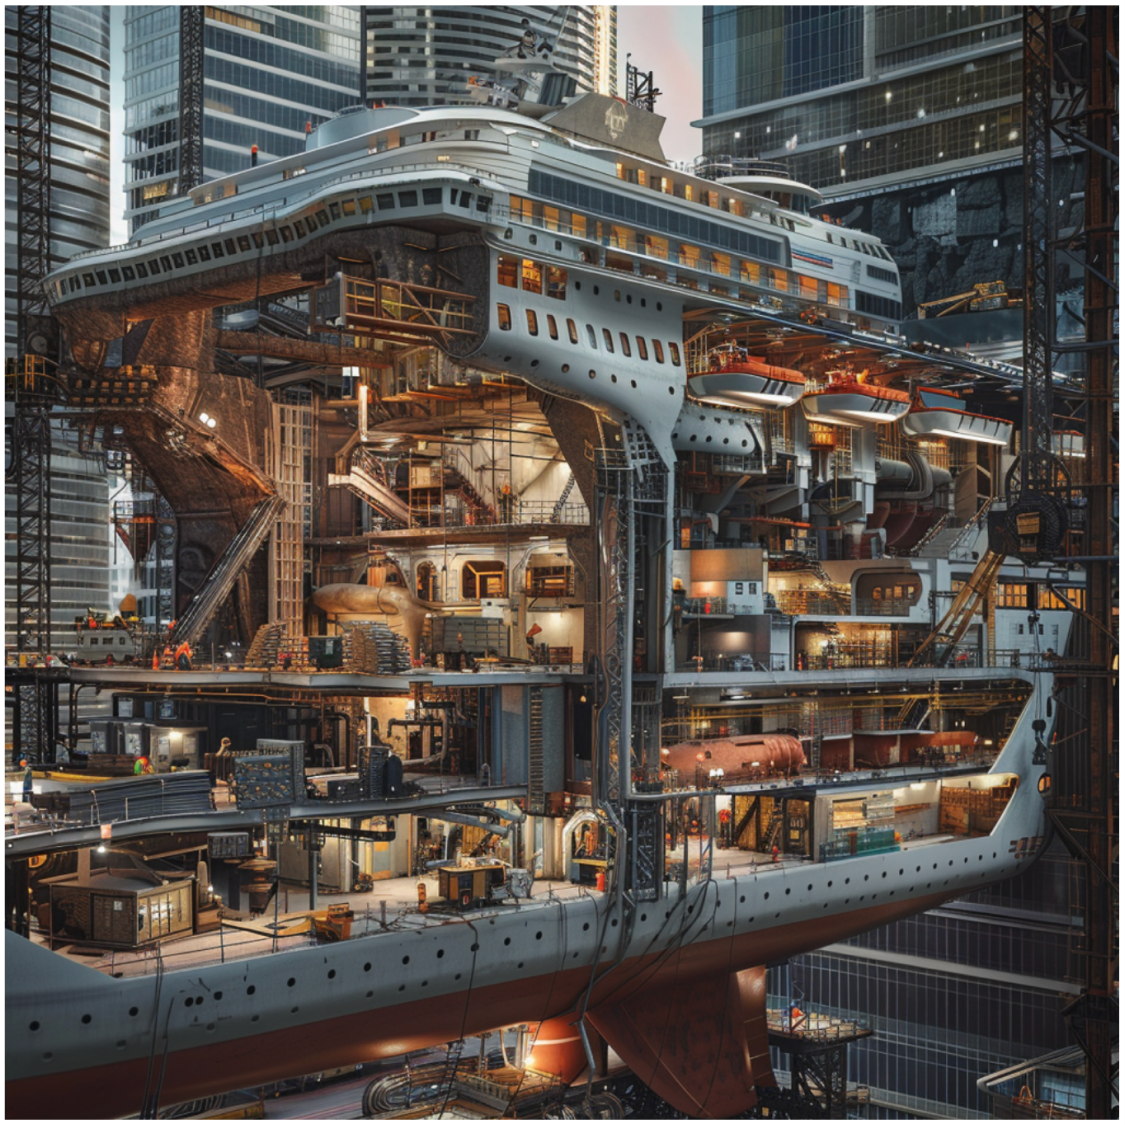
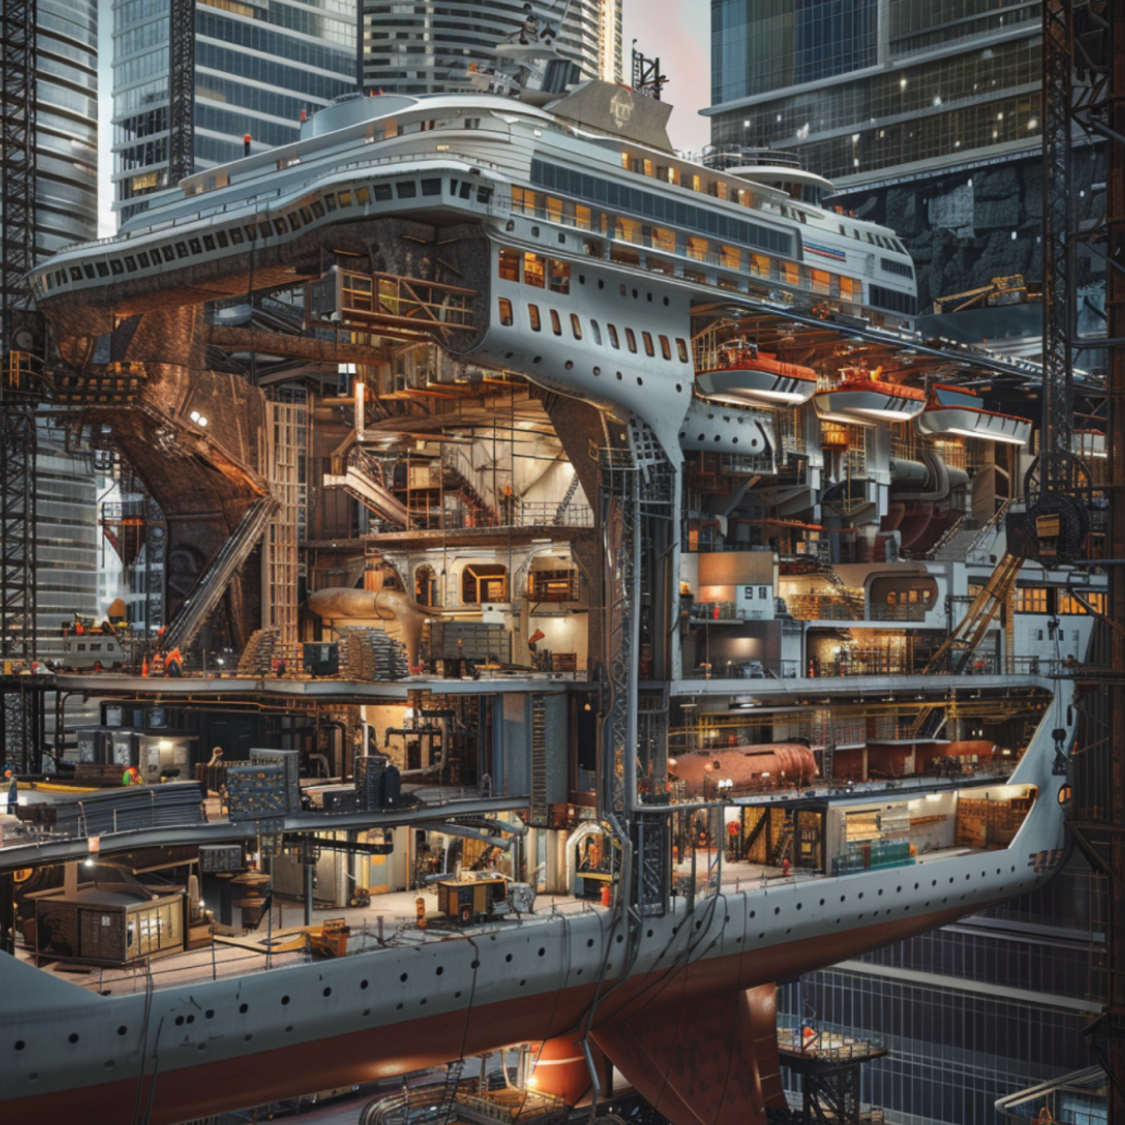
Vision Images Updated

diff --git a/vision-of-the-future.html b/vision-of-the-future.html
@@ -167,7 +167,7 @@
           <div class="each-block">
             <a href="war-games.html">
             <div class="img">
-              <img src="img/vision/War.png" alt="war" class="img-fluid w-100">
+              <img src="img/vision/War.webp" alt="war" class="img-fluid w-100">
               <div class="overlay">
                 <a class="button-85" href="war-games.html" role="button" ><img src="img/vision/arrow (3).svg" class="img-fluid" alt="arrow"></a>
                </div>
@@ -182,7 +182,7 @@
           <div class="each-block">
             <a href="water-woes.html">
             <div class="img">
-              <img src="img/vision/water.png" alt="water" class="img-fluid w-100">
+              <img src="img/vision/water.webp" alt="water" class="img-fluid w-100">
               <div class="overlay">
                 <a class="button-85" href="water-woes.html" role="button" ><img src="img/vision/arrow (3).svg" class="img-fluid" alt="arrow"></a>
                </div>
@@ -197,7 +197,7 @@
           <div class="each-block">
             <a href="u-phone.html">
             <div class="img">
-              <img src="img/vision/U-Phone.png" alt="phone" class="img-fluid w-100">
+              <img src="img/vision/U-Phone.webp" alt="phone" class="img-fluid w-100">
               <div class="overlay">
                 <a class="button-85" href="u-phone.html" role="button" ><img src="img/vision/arrow (3).svg" class="img-fluid" alt="arrow"></a>
                </div>
@@ -235,7 +235,7 @@
           <div class="each-block">
             <a href="planet-earth.html">
             <div class="img">
-              <img src="img/vision/planet.png" alt="planet" class="img-fluid w-100">
+              <img src="img/vision/planet.webp" alt="planet" class="img-fluid w-100">
               <div class="overlay">
                 <a class="button-85" href="planet-earth.html" role="button" ><img src="img/vision/arrow (3).svg" class="img-fluid" alt="arrow"></a>
                </div>
@@ -265,7 +265,7 @@
           <div class="each-block">
             <a href="mumbai.html">
             <div class="img">
-              <img src="img/vision/mumbai.png" alt="mumbai" class="img-fluid w-100">
+              <img src="img/vision/mumbai.webp" alt="mumbai" class="img-fluid w-100">
               <div class="overlay">
                 <a class="button-85" href="mumbai.html" role="button" ><img src="img/vision/arrow (3).svg" class="img-fluid" alt="arrow"></a>
                </div>
@@ -280,7 +280,7 @@
           <div class="each-block">
             <a href="russia.html">
             <div class="img">
-              <img src="img/vision/russia.png" alt="russia" class="img-fluid w-100">
+              <img src="img/vision/russia.webp" alt="russia" class="img-fluid w-100">
               <div class="overlay">
                 <a class="button-85" href="russia.html" role="button" ><img src="img/vision/arrow (3).svg" class="img-fluid" alt="arrow"></a>
                </div>
